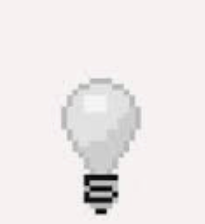
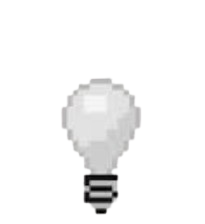
added a lamp

diff --git a/Javascript ballong test/index.html b/Javascript ballong test/index.html
@@ -9,26 +9,52 @@
 <body>
     <div class="Container">
         <button id="button" onclick="BlowTheBallon();">Blåsa Ballongen </button>
-            <p id="ballon">🎈</p>
+        <p id="ballon">🎈</p>
     </div>
-    <h1 id="text" >Blås!</h1>
-
-
+    <div class="text" >
+        <h1 id="text">Blås!</h1>
+        <input type="checkbox" id="checkbox" onclick="ShowText();">
+        <label for="checkbox">Visa text</label>
+    </div>
+    <img src="off.png" id="lamp" onclick="ChangeLamp();">
+    
+    
     <script>
-        let size = 16
-        const Ballon = document.getElementById("ballon")
-        const Button = document.getElementById("button")
-        const H1 = document.getElementById("text")
+        let size = 16;
+        const Ballon = document.getElementById("ballon");
+        const H1 = document.getElementById("text");
 
-        function BlowTheBallon(){
-             if (size >= 51) { 
-            Ballon.innerText = "💥"
-            H1.innerText = "STOP!!"
+        function BlowTheBallon() {
+            if (size >= 50) { 
+                Ballon.innerText = "💥";
+                H1.innerText = "STOP!!";
             } else {
-                size += 5 
-                Ballon.style.fontSize = size + "px"
-             }
+                size += 5; 
+                Ballon.style.fontSize = size + "px";
             }
+        }
+
+        let lamp_value = 0;
+
+        function ChangeLamp() {
+            const lamp = document.getElementById("lamp");
+            if (lamp_value == 0) {
+                lamp.src = "on.png";
+                lamp_value++;
+            } else {
+                lamp.src = "off.png";
+                lamp_value--;
+            }
+        }
+
+
+        function ShowText() {
+        const checkbox = document.getElementById("checkbox"); 
+        if (checkbox.checked) { 
+        H1.style.display = "none"; } else{
+        H1.style.display = "block";
+            } 
+        }
     </script>
 </body>
 </html>

diff --git a/Javascript ballong test/style.css b/Javascript ballong test/style.css
@@ -8,7 +8,7 @@ body {
 
     grid-template-areas: 
     ". h1 ."
-    ". ballon ."
+    "img ballon ."
     ". . .";
 }
 
@@ -19,9 +19,14 @@ body {
     display: flex;
 }
 
-h1 {
+.text {
     grid-area: h1;
+    margin: 0 0 10px  0;
     align-self: end;
+}
+
+label {
+    font-size: 1.2rem;
 }
 
 button {
@@ -31,3 +36,11 @@ button {
     width: 145px;
     cursor: pointer;
 }
+
+img {
+    grid-area: img;
+    cursor: pointer;
+    justify-self: center;
+    width: 100px;
+}
+
